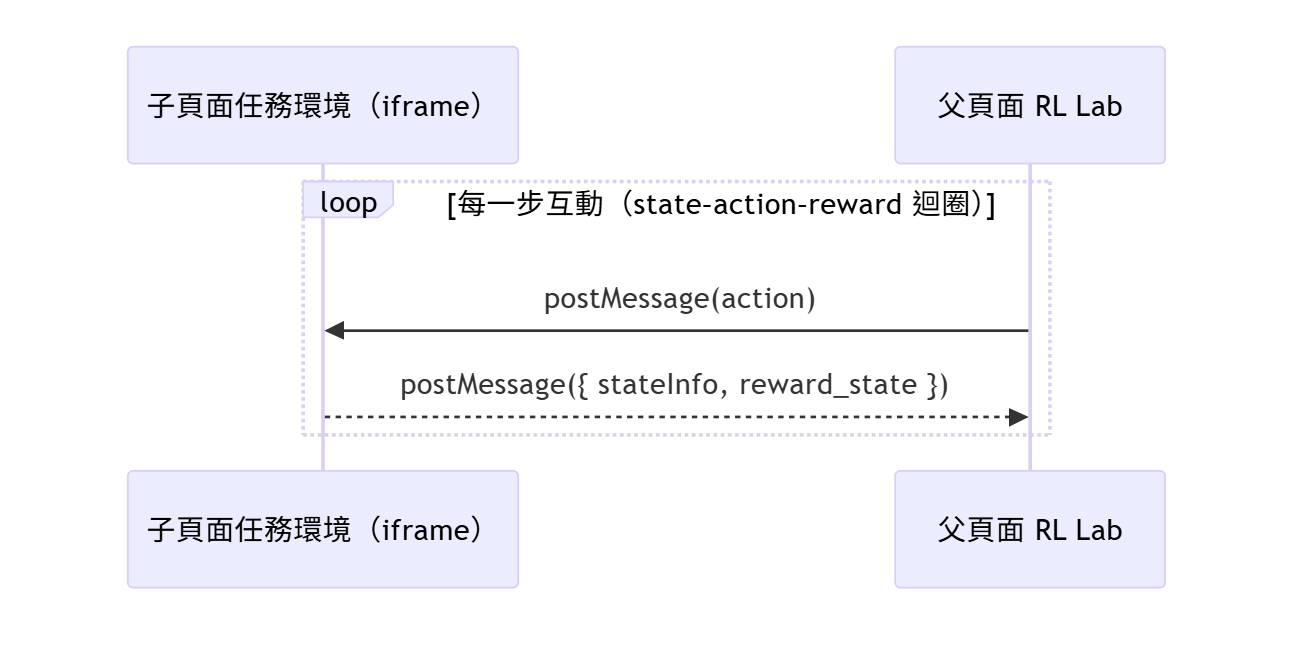
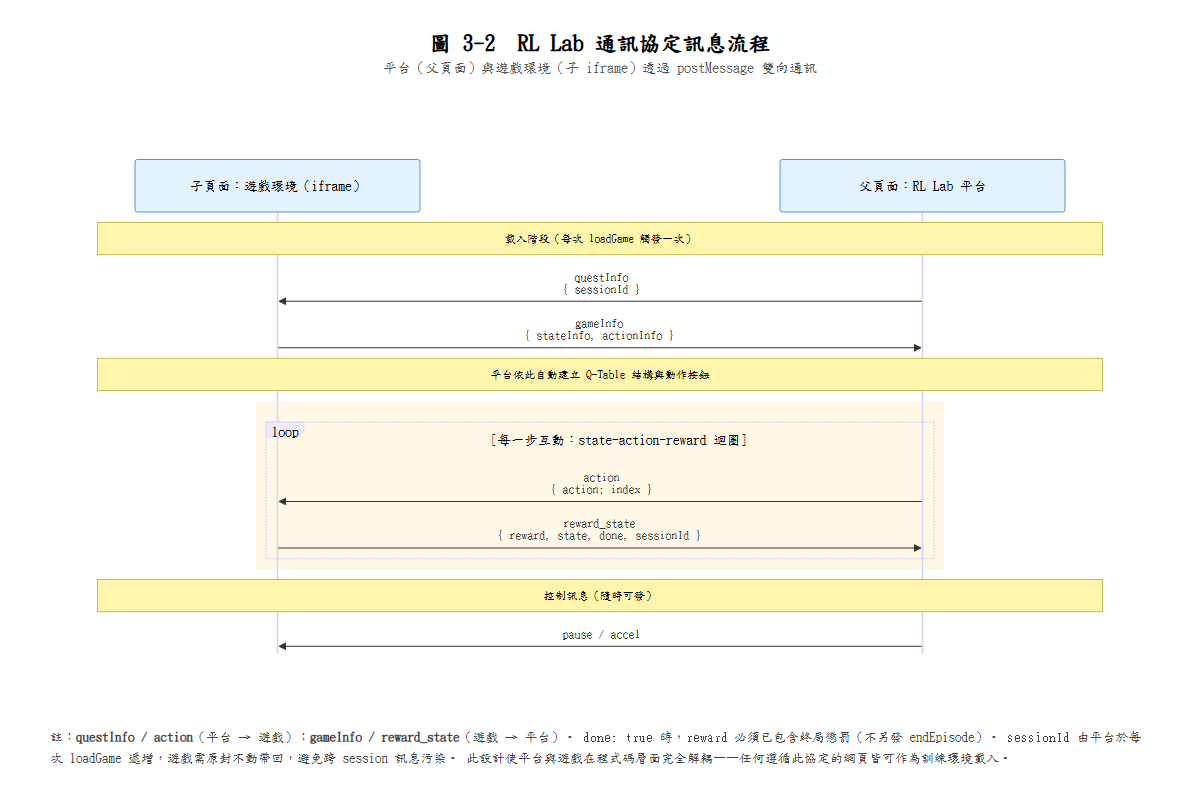
feat(figures): 第二波 — 圖 3-2 通訊協定流程圖 + 圖 4-1 A/B 實驗流程圖
新增 2 張 Mermaid 流程圖：
- 圖 3-2 RL Lab 通訊協定訊息流程（sequence diagram）
  * 子頁面 (iframe) 與父頁面 (RL Lab) 透過 postMessage 互動
  * 載入階段：questInfo / gameInfo
  * 互動迴圈：action / reward_state（state-action-reward 迴圈）
  * 控制訊息：pause / accel
  * 取代舊版手繪中文版（保留在 git history）

- 圖 4-1 A/B 教學實驗流程示意圖（flowchart）
  * 開始 → 前測 → 依班級分組 → A/B 兩組各自 Day 1+Day 2 教學 → 後測 → 資料分析 → 研究結論
  * 補上之前 build_thesis.py 提示缺失的圖 4-1
  * 用色階區分：前測（橘）/ A 組（藍）/ B 組（橙）/ 後測（紫）/ 分析（綠）

工具更新：
- screenshot_figures.py 支援不同 viewport 尺寸（圖 4-1 用 1400x1100，其他 1200x800）
- 截圖等待時間從 1.5s 增至 2.5s，給 Mermaid 渲染足夠時間

複製英文凍結版截圖到 images/ 覆蓋舊中文版：
- 截圖/圖3-1_整體介面.png → images/fig3-1.png
- ... (共 12 張：3-1, 3-5~3-10, 3-11a~3-11e)

build_thesis.py 跑通，零缺圖警告。
論文目前共 19 張圖：12 張第三章截圖 + 1 張第三章 Mermaid + 1 張第四章 Mermaid + 5 張第五章 Chart.js

diff --git a/figures/fig4-1-experiment-flow.html b/figures/fig4-1-experiment-flow.html
@@ -1,0 +1,130 @@
+<!DOCTYPE html>
+<html lang="zh-Hant">
+<head>
+<meta charset="UTF-8">
+<title>圖 4-1 A/B 教學實驗流程示意圖</title>
+<script src="https://cdn.jsdelivr.net/npm/mermaid@10.9.0/dist/mermaid.min.js"></script>
+<style>
+  body {
+    margin: 0;
+    padding: 25px 40px;
+    font-family: "標楷體", "DFKai-SB", "PMingLiU", serif;
+    background: white;
+    width: 1400px;
+    height: 1100px;
+    box-sizing: border-box;
+  }
+  .figure { display: flex; flex-direction: column; align-items: center; height: 100%; }
+  .title { font-size: 22px; font-weight: bold; margin-bottom: 4px; }
+  .subtitle { font-size: 14px; color: #555; margin-bottom: 16px; }
+  .diagram {
+    width: 1320px;
+    flex: 1;
+    display: flex;
+    align-items: center;
+    justify-content: center;
+    overflow: visible;
+  }
+  .mermaid svg {
+    max-width: 1320px !important;
+    height: auto !important;
+  }
+  .footnote {
+    margin-top: 12px;
+    font-size: 13px;
+    color: #444;
+    line-height: 1.6;
+    max-width: 1320px;
+  }
+  .mermaid text {
+    font-family: "標楷體", "DFKai-SB", serif !important;
+    font-size: 14px !important;
+  }
+</style>
+</head>
+<body>
+<div class="figure">
+  <div class="title">圖 4-1　A/B 教學實驗流程示意圖</div>
+  <div class="subtitle">準實驗設計：兩組學生透過 18 支共用 / 分流影片接受標準化教學介入</div>
+  <div class="diagram">
+    <div class="mermaid">
+flowchart TB
+    Start([開始])
+
+    subgraph Pretest[Day 1 開始：前測]
+        PT[8 題概念測驗<br/>5 概念題 + 3 圖表判讀題]
+    end
+
+    Start --> PT
+
+    PT --> Split{依班級分組}
+
+    subgraph A[實驗組 A：大學部資工大二，n=26 → 18]
+        direction TB
+        A_D1[Day 1 教學<br/>V0~V2 共用理論影片<br/>+ A0~A2 RL Lab 操作影片<br/>→ T1 MAB / T2 Maze1D]
+        A_D2[Day 2 教學<br/>V3~V5 共用理論影片<br/>+ A3~A5 RL Lab 操作影片<br/>→ T3 Maze2D / T4 Heli / T5 Fighter]
+        A_D1 --> A_D2
+    end
+
+    subgraph B[對照組 B：碩士班資工碩一，n=15 → 12]
+        direction TB
+        B_D1[Day 1 教學<br/>V0~V2 共用理論影片<br/>+ B0~B2 Colab 操作影片<br/>→ T1 MAB / T2 Maze1D]
+        B_D2[Day 2 教學<br/>V3~V5 共用理論影片<br/>+ B3~B5 Colab 操作影片<br/>→ T3 Maze2D / T4 Heli / T5 Fighter]
+        B_D1 --> B_D2
+    end
+
+    Split -->|RL Lab 介面| A
+    Split -->|Gymnasium + Colab| B
+
+    A --> PostA
+    B --> PostB
+
+    subgraph PostA[Day 2 結束：A 組後測]
+        POSTA[8 題概念後測<br/>+ Section 3 平台回饋<br/>+ NASA-TLX + SUS<br/>+ 開放題]
+    end
+
+    subgraph PostB[Day 2 結束：B 組後測]
+        POSTB[8 題概念後測<br/>+ Section 3 平台回饋<br/>+ NASA-TLX + SUS<br/>+ 開放題]
+    end
+
+    PostA --> Analysis[資料分析<br/>三層次 t-test 切法 + 質性歸納]
+    PostB --> Analysis
+
+    Analysis --> End([研究結論])
+
+    classDef pre fill:#fff3e0,stroke:#e65100,stroke-width:2px
+    classDef A fill:#e3f2fd,stroke:#1976d2,stroke-width:2px
+    classDef B fill:#fff8e1,stroke:#f57c00,stroke-width:2px
+    classDef post fill:#f3e5f5,stroke:#7b1fa2,stroke-width:2px
+    classDef ana fill:#e8f5e9,stroke:#388e3c,stroke-width:2px
+
+    class PT pre
+    class A_D1,A_D2 A
+    class B_D1,B_D2 B
+    class POSTA,POSTB post
+    class Analysis ana
+    </div>
+  </div>
+  <div class="footnote">
+    註：18 支教學影片包含 6 支共用 RL 理論影片（V0–V5）、6 支實驗組平台操作影片（A0–A5）、6 支對照組平台操作影片（B0–B5）。
+    兩組僅在「平台操作影片」與「實際操作介面」上存在差異，其餘教學內容（理論影片、任務序列、講師講稿、前後測題目）均完全相同。
+    詳細的 13 步驟教學節奏與 Treatment Fidelity 七層次標準化設計見 4.4 節。
+  </div>
+</div>
+
+<script>
+mermaid.initialize({
+  startOnLoad: true,
+  theme: 'default',
+  fontFamily: '"標楷體", "DFKai-SB", serif',
+  flowchart: {
+    htmlLabels: true,
+    nodeSpacing: 30,
+    rankSpacing: 30,
+    padding: 8,
+    useMaxWidth: false,
+  },
+});
+</script>
+</body>
+</html>

diff --git a/figures/fig3-2-protocol-flow.html b/figures/fig3-2-protocol-flow.html
@@ -1,0 +1,119 @@
+<!DOCTYPE html>
+<html lang="zh-Hant">
+<head>
+<meta charset="UTF-8">
+<title>圖 3-2 通訊協定訊息流程</title>
+<script src="https://cdn.jsdelivr.net/npm/mermaid@10.9.0/dist/mermaid.min.js"></script>
+<style>
+  body {
+    margin: 0;
+    padding: 30px 40px;
+    font-family: "標楷體", "DFKai-SB", "PMingLiU", serif;
+    background: white;
+    width: 1200px;
+    height: 800px;
+    box-sizing: border-box;
+  }
+  .figure { display: flex; flex-direction: column; align-items: center; height: 100%; }
+  .title { font-size: 22px; font-weight: bold; margin-bottom: 4px; }
+  .subtitle { font-size: 14px; color: #555; margin-bottom: 12px; }
+  .diagram {
+    width: 1100px;
+    flex: 1;
+    display: flex;
+    align-items: center;
+    justify-content: center;
+    overflow: visible;
+  }
+  .footnote {
+    margin-top: 12px;
+    font-size: 13px;
+    color: #444;
+    line-height: 1.6;
+    max-width: 1100px;
+  }
+  /* 放大 mermaid SVG 至撐滿容器 */
+  .mermaid {
+    width: 100%;
+    display: flex;
+    justify-content: center;
+  }
+  .mermaid svg {
+    width: 100% !important;
+    max-width: 1080px !important;
+    height: auto !important;
+  }
+  .mermaid .actor {
+    fill: #e3f2fd !important;
+    stroke: #1976d2 !important;
+  }
+  .mermaid .actor-line {
+    stroke: #aaa !important;
+  }
+  .mermaid text {
+    font-family: "標楷體", "DFKai-SB", serif !important;
+    font-size: 18px !important;
+  }
+  .mermaid .messageText {
+    font-size: 16px !important;
+  }
+  .mermaid .noteText {
+    font-size: 15px !important;
+  }
+</style>
+</head>
+<body>
+<div class="figure">
+  <div class="title">圖 3-2　RL Lab 通訊協定訊息流程</div>
+  <div class="subtitle">平台（父頁面）與遊戲環境（子 iframe）透過 postMessage 雙向通訊</div>
+  <div class="diagram">
+    <div class="mermaid" id="diagram">
+sequenceDiagram
+    participant Game as 子頁面：遊戲環境（iframe）
+    participant Lab as 父頁面：RL Lab 平台
+
+    Note over Lab,Game: 載入階段（每次 loadGame 觸發一次）
+    Lab->>Game: questInfo<br/>{ sessionId }
+    Game->>Lab: gameInfo<br/>{ stateInfo, actionInfo }
+    Note over Lab,Game: 平台依此自動建立 Q-Table 結構與動作按鈕
+
+    rect rgb(255, 248, 230)
+    loop 每一步互動：state-action-reward 迴圈
+        Lab->>Game: action<br/>{ action: index }
+        Game->>Lab: reward_state<br/>{ reward, state, done, sessionId }
+    end
+    end
+
+    Note over Lab,Game: 控制訊息（隨時可發）
+    Lab->>Game: pause / accel
+    </div>
+  </div>
+  <div class="footnote">
+    註：<strong>questInfo / action</strong>（平台 → 遊戲）；<strong>gameInfo / reward_state</strong>（遊戲 → 平台）。
+    <code>done: true</code> 時，<code>reward</code> 必須已包含終局懲罰（不另發 endEpisode）。
+    <code>sessionId</code> 由平台於每次 loadGame 遞增，遊戲需原封不動帶回，避免跨 session 訊息污染。
+    此設計使平台與遊戲在程式碼層面完全解耦——任何遵循此協定的網頁皆可作為訓練環境載入。
+  </div>
+</div>
+
+<script>
+mermaid.initialize({
+  startOnLoad: true,
+  theme: 'default',
+  fontFamily: '"標楷體", "DFKai-SB", serif',
+  sequence: {
+    actorMargin: 480,
+    width: 380,
+    height: 70,
+    boxMargin: 14,
+    boxTextMargin: 10,
+    noteMargin: 14,
+    messageMargin: 50,
+    mirrorActors: false,
+    showSequenceNumbers: false,
+    useMaxWidth: false,
+  },
+});
+</script>
+</body>
+</html>

diff --git a/figures/screenshot_figures.py b/figures/screenshot_figures.py
@@ -14,33 +14,37 @@ ROOT = Path(__file__).parent.parent
 FIGURES_DIR = Path(__file__).parent
 IMAGES_DIR = ROOT / "images"
 
-# (HTML 檔, 輸出 PNG 名)
+# (HTML 檔, 輸出 PNG 名, viewport 寬, viewport 高)
 FIGURES = [
-    ("fig5-3-task-completion.html", "fig5-3.png"),
-    ("fig5-1-pretest-posttest-box.html", "fig5-1.png"),
-    ("fig5-2-gain-comparison.html", "fig5-2.png"),
-    ("fig5-4-section3-comparison.html", "fig5-4.png"),
-    ("fig5-5-sus-comparison.html", "fig5-5.png"),
+    ("fig3-2-protocol-flow.html",       "fig3-2.png", 1200, 800),
+    ("fig4-1-experiment-flow.html",     "fig4-1.png", 1400, 1100),
+    ("fig5-1-pretest-posttest-box.html","fig5-1.png", 1200, 800),
+    ("fig5-2-gain-comparison.html",     "fig5-2.png", 1200, 800),
+    ("fig5-3-task-completion.html",     "fig5-3.png", 1200, 800),
+    ("fig5-4-section3-comparison.html", "fig5-4.png", 1200, 800),
+    ("fig5-5-sus-comparison.html",      "fig5-5.png", 1200, 800),
 ]
 
 
-async def shot_one(page, html_file: str, png_name: str):
+async def shot_one(context, html_file: str, png_name: str, w: int, h: int):
     html_path = FIGURES_DIR / html_file
     if not html_path.exists():
         print(f"  ⚠ 跳過：{html_file}（不存在）")
         return False
 
+    page = await context.new_page()
+    await page.set_viewport_size({"width": w, "height": h})
     url = html_path.absolute().as_uri()
     await page.goto(url)
     await page.wait_for_load_state("networkidle")
-    # 給 Chart.js 動畫完成的時間
-    await asyncio.sleep(1.5)
+    # 給 Chart.js / Mermaid 渲染完成的時間
+    await asyncio.sleep(2.5)
 
     out_path = IMAGES_DIR / png_name
     out_path.parent.mkdir(parents=True, exist_ok=True)
-    # 截整個 viewport（HTML 已固定 1200x800）
     await page.screenshot(path=str(out_path), full_page=False)
-    print(f"  ✅ {png_name}")
+    await page.close()
+    print(f"  ✅ {png_name}  ({w}x{h})")
     return True
 
 
@@ -50,12 +54,11 @@ async def main():
 
     async with async_playwright() as p:
         browser = await p.chromium.launch(headless=True)
-        context = await browser.new_context(viewport={"width": 1200, "height": 800})
-        page = await context.new_page()
+        context = await browser.new_context()
 
-        for html_file, png_name in FIGURES:
+        for html_file, png_name, w, h in FIGURES:
             print(f"▶ {html_file}")
-            await shot_one(page, html_file, png_name)
+            await shot_one(context, html_file, png_name, w, h)
 
         await browser.close()
     print("\n完成。")
